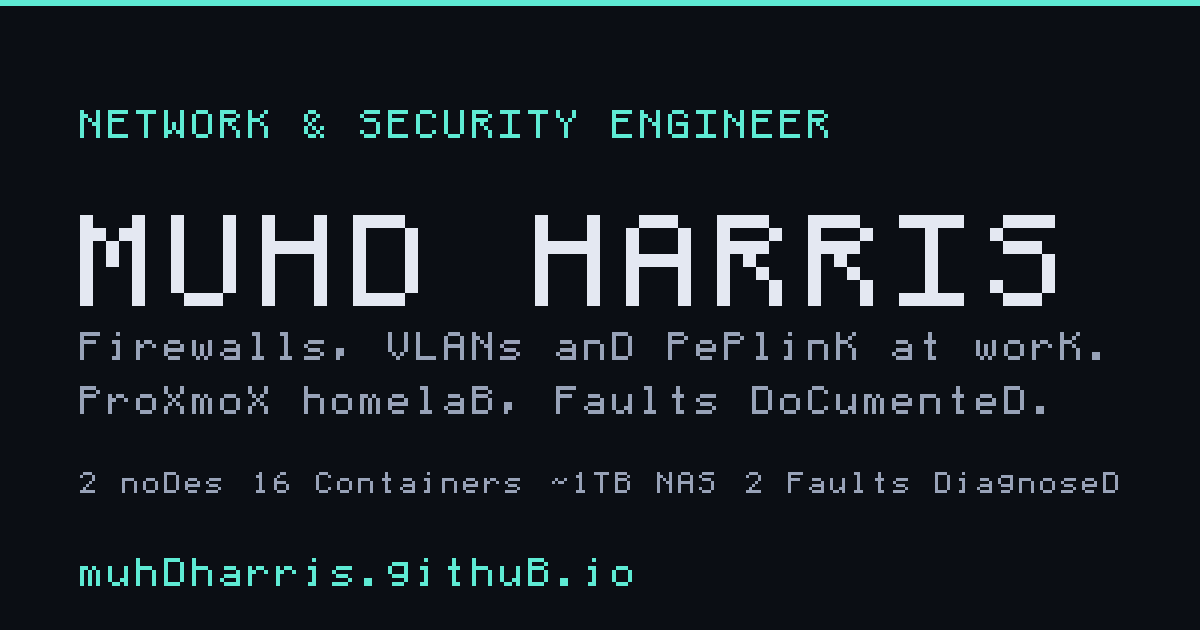
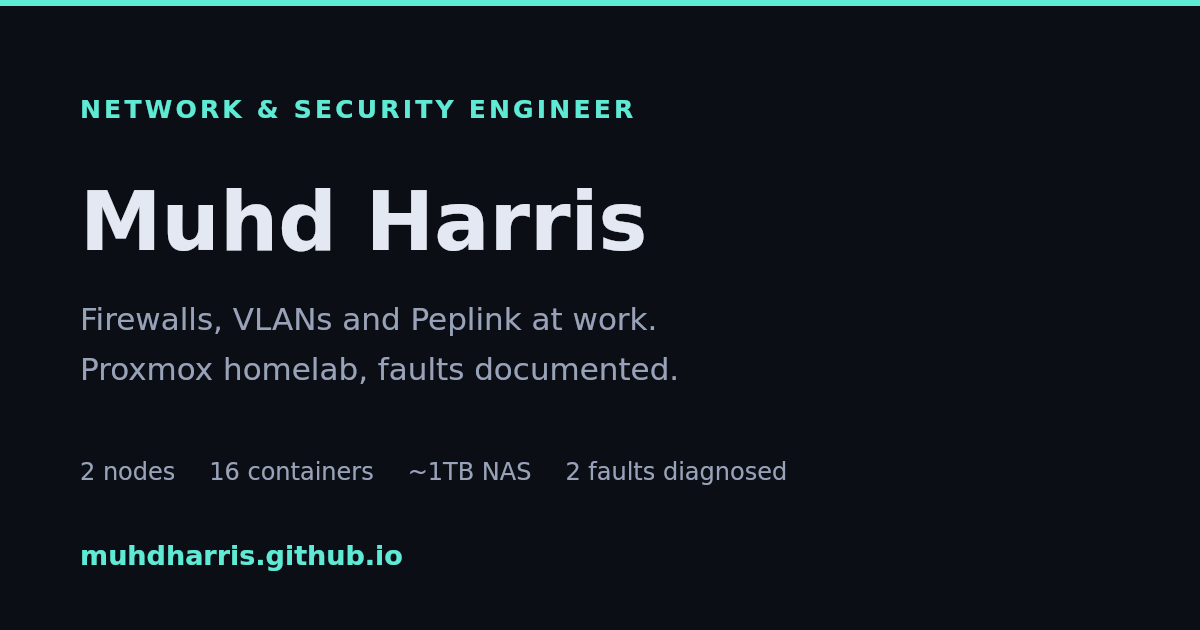
Fix the share image, lead with the job, and make the CV one page
The share image was the worst of these. I had drawn the text with a hand-rolled
bitmap font, and that font had no lowercase d, k or p. The renderer silently fell
back to the uppercase glyph for anything missing, so it published "anD PePlinK at
worK" and "muhDharris.githuB.io" -- exactly the kind of thing that makes a person
look careless before they have read a word.

Rebuilt it with a real font rasteriser instead of my own bitmap table. Text is now
DejaVu Sans with Liberation Sans as fallback, rendered by a canvas library, so the
lowercase is genuine lowercase. I also made the renderer throw on a missing glyph
rather than substitute a capital, so this class of bug cannot come back silently,
and it asserts the stats line fits before writing.

Verified by reading the output back: every line transcribes correctly, case is
right, nothing overlaps or runs off the edge.

The hero now leads with the job rather than the homelab. The eyebrow names InnoSphere
instead of the coursework, and the lede says what the work is -- firewall policy, VLAN
segmentation, Peplink edge, EDR -- before mentioning the homelab. The About paragraph
was restated in the hero's own words; the sentence the two shared now appears once.

The credential hygiene bullet said "secrets never written into notes" and then, in a
garbled half-sentence, admitted the compose files held plaintext credentials. Both
were true and together they read as a dodge. It is now two items: what is actually
[…]

diff --git a/index.html b/index.html
@@ -43,15 +43,13 @@
 
     <section id="home" class="home">
         <div class="home-content">
-            <p class="eyebrow">Network &amp; Security Engineer · Cisco Networking Academy</p>
+            <p class="eyebrow">Network &amp; Security Engineer · InnoSphere Technologies</p>
             <h1><span class="name">Muhd Harris</span></h1>
             <p class="role">Network &amp; Security Engineer</p>
             <p class="lede">
-                I run a two-node Proxmox cluster with <span class="hl">16 containers</span>
-                and document all of it. My work sits between the systems that are
-                supposed to be secure and the ones that aren't — configuration,
-                diagnosis, and the unglamorous debugging that keeps infrastructure up
-                when something fails in a way nobody expected.
+                I design and run company networks — firewall policy, VLAN segmentation,
+                Peplink edge and EDR — and keep a two-node Proxmox homelab where I
+                diagnose faults to root cause and document them.
             </p>
             <div class="hero-actions">
                 <a href="#contact" class="btn">Let's talk</a>
@@ -70,12 +68,12 @@
         <h2 class="section-title">About</h2>
         <div class="prose">
             <p>
-                Currently a Network &amp; Security Engineer at InnoSphere Technologies,
-                working on firewall policy, switch and wireless configuration, and
-                endpoint tooling. My work sits between the systems that are supposed
-                to be secure and the ones that aren't — configuration, diagnosis, and
-                the unglamorous debugging that keeps infrastructure up when something
-                fails in a way nobody expected.
+                My work sits between the systems that are supposed to be secure and
+                the ones that aren't — configuration, diagnosis, and the unglamorous
+                debugging that keeps infrastructure up when something fails in a way
+                nobody expected. Most of it is quiet: a rule set that holds, a switch
+                that keeps passing traffic, a device that gets replaced before anyone
+                notices it was dying.
             </p>
             <p>
                 I built the homelab as a working testbed rather than a collection of
@@ -221,11 +219,11 @@
                 </div>
             </div>
             <div class="learn-card">
-                <span class="cert-badge alt">SECURITY OPS</span>
+                <span class="cert-badge alt">SECURITY</span>
                 <div>
-                    <h3>Security Operations</h3>
-                    <p>Jun 2024 — defensive security operations: detection,
-                    investigation, and incident response.</p>
+                    <h3>Introduction to Cybersecurity</h3>
+                    <p>Jun 2024 — detection, investigation, and incident
+                    response.</p>
                 </div>
             </div>
         </div>
@@ -236,7 +234,8 @@
             <li><strong>DNS control</strong> — Pi-hole as network-wide resolver, network hygiene rather than per-device settings</li>
             <li><strong>Private access without exposing anything</strong> — Tailscale over port forwarding</li>
             <li><strong>Least privilege at the storage layer</strong> — NFS exports scoped per share, hardened with <code>all_squash</code> and <code>anonuid</code></li>
-            <li><strong>Credential hygiene</strong> — passwords segregated into one vault, secrets never written into notes. The public repository ships no compose files at all, because the private ones carried credentials in plaintext <code>environment:</code> blocks. Writing sanitised ones is the obvious improvement, and not shipping them is why the README says why</li>
+            <li><strong>Credential hygiene</strong> — passwords segregated into one vault, and secrets never written into notes. The public repository ships no compose files, because the private ones held credentials in plaintext <code>environment:</code> blocks and I would rather publish nothing than publish those</li>
+            <li class="practice-caveat"><strong>What I would change</strong> — the private compose files still hold those plaintext secrets. Moving them to <code>.env</code> or Docker secrets and publishing sanitised versions is the correct fix, and it is the first thing I would do with more time</li>
             <li><strong>Hardware-level fault isolation</strong> — a failing NIC taking down every VM, and the driver-level fix</li>
         </ul>
     </section>
@@ -292,7 +291,7 @@
             <p class="project-meta">Solidity · Dart/Flutter · Testing · <a href="https://github.com/muhdharris/truechain">Repo</a></p>
             <p>
                 A final-year project I audited and rebuilt, after finding that it
-                proved nothing: the the customer
+                proved nothing: the customer
                 transparency screen — whose entire job is proving a supply chain record is
                 trustworthy — was reading a list stored in the browser. The app called four
                 contract functions that had never existed, and presented randomly generated
@@ -336,6 +335,25 @@
                 and persistence. NetBeans project, plain Java, no framework.
             </p>
             <a class="repo-link" href="https://github.com/muhdharris/cinemaProject">GitHub <i class="fab fa-github"></i></a>
+        </article>
+
+        <article class="project">
+            <h3>Network scanner</h3>
+            <p class="project-meta">Python &middot; Flask &middot; Nmap</p>
+            <p>
+                A scheduled host scanning service: point it at a subnet and it walks
+                the range on an interval, logging what answers.
+            </p>
+            <p>
+                The interesting part was making it stoppable. A scheduler that spawns a
+                thread per request will eventually hold several at once, and a scan you
+                cannot interrupt is a scan you cannot shut down when it turns up
+                something you were not expecting. One scheduler thread, an interruptible
+                loop, and a stop endpoint that takes effect immediately.
+            </p>
+            <p class="project-links">
+                <a href="https://github.com/muhdharris/networkscanner">Repo</a>
+            </p>
         </article>
 
         <article class="project">

diff --git a/styles.css b/styles.css
@@ -381,6 +381,12 @@ footer p { color: var(--text-dim); font-size: 0.88rem; margin: 0; }
     letter-spacing: -0.01em;
 }
 .practice-list { list-style: none; margin: 0; padding: 0; max-width: 62ch; }
+.practice-list li.practice-caveat {
+  border-style: dashed;
+  color: var(--text-dim);
+}
+.practice-list li.practice-caveat strong { color: var(--accent); }
+
 .practice-list li {
     padding: 0.7rem 0 0.7rem 1.5rem; position: relative;
     border-bottom: 1px solid var(--border); color: var(--text-dim);
@@ -482,20 +488,6 @@ footer p { color: var(--text-dim); font-size: 0.88rem; margin: 0; }
   border: 1px solid var(--border);
   background: var(--bg);
 }
-.diagram-pre {
-  background: var(--surface);
-  border: 1px solid var(--border);
-  border-radius: 8px;
-  padding: 1.25rem;
-  font-size: 0.78rem;
-  line-height: 1.45;
-  color: var(--text-dim);
-  /* the pre scrolls inside its own box so long ASCII art cannot widen the page */
-  overflow-x: auto;
-  max-width: 100%;
-  -webkit-overflow-scrolling: touch;
-}
-.diagram-scroll { overflow-x: auto; max-width: 100%; }
 .diagram figcaption {
   margin-top: 0.75rem;
   font-size: 0.85rem;

diff --git a/README.md b/README.md
@@ -5,20 +5,29 @@ Personal site — live at https://muhdharris.github.io
 Hand-written HTML and CSS. No framework, no build step, no template.
 Dark and light mode via `prefers-color-scheme`.
 
-## Layout
+## Files
 
 ```
-index.html    single page, six sections
-styles.css    all styling, CSS custom properties for theming
+index.html             the whole site, single page
+styles.css             all styling, CSS custom properties for theming
+infra-topology.svg     homelab diagram, drawn in the dark palette
+og-image.png           1200x630 share card for link previews
+Muhd-Harris-CV.pdf     CV
 ```
 
 ## Sections
 
-Home · About · What I Run · Selected Work · Stack · Education · Contact
+Experience · About · Infrastructure · Learning · Portfolio · Skills ·
+Background · Contact
 
-The "What I Run" section is the substantive one — a two-node Proxmox
-cluster with sixteen containers, written up as a case study rather than a
-list of software.
+The Infrastructure section is the substantive one — a two-node Proxmox cluster
+with sixteen containers, written up as a case study rather than a list of
+software, including the fix that appeared to work and was still wrong.
+
+## Notes
+
+The site is static, so it deploys straight from `main`. There is no build step
+and nothing to compile.
 
 ## Local preview
 
